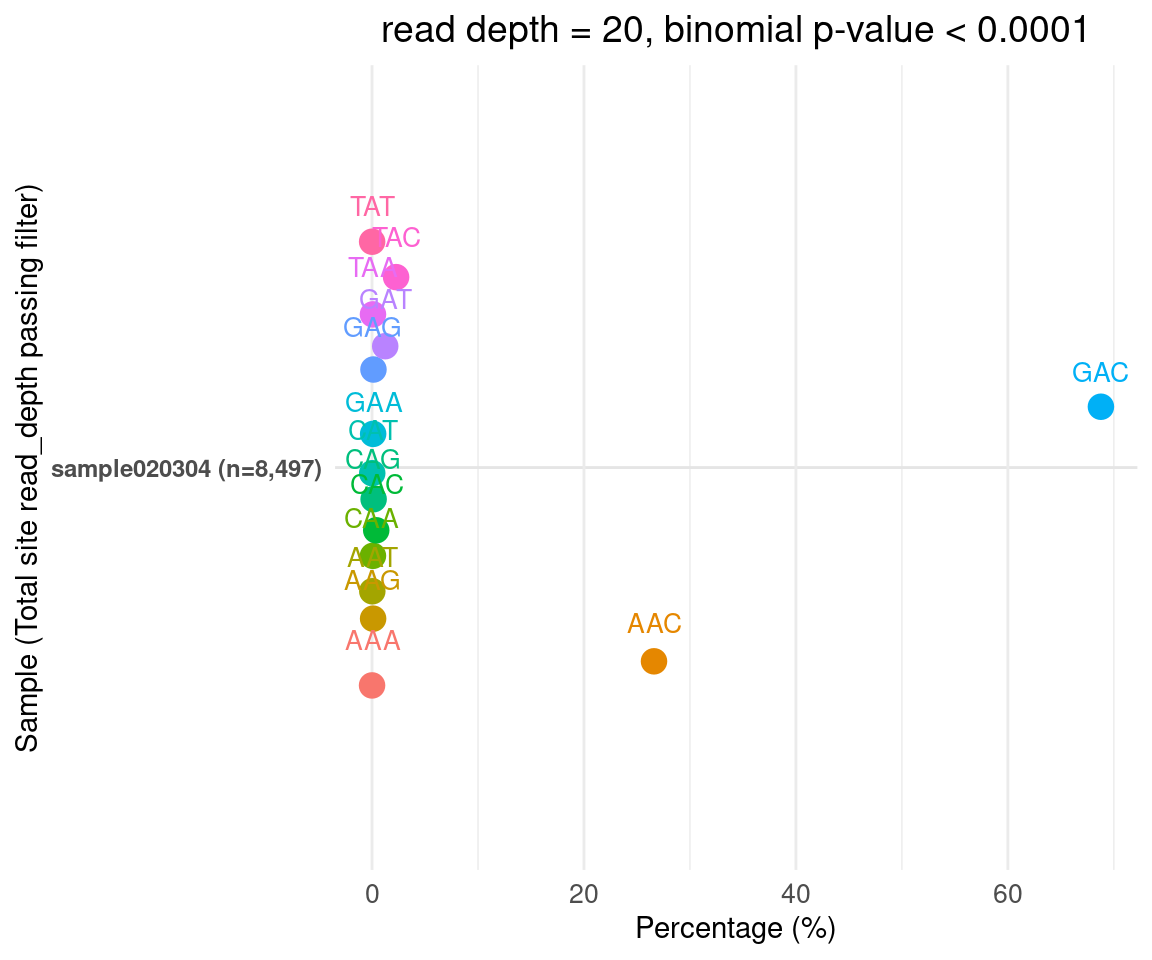
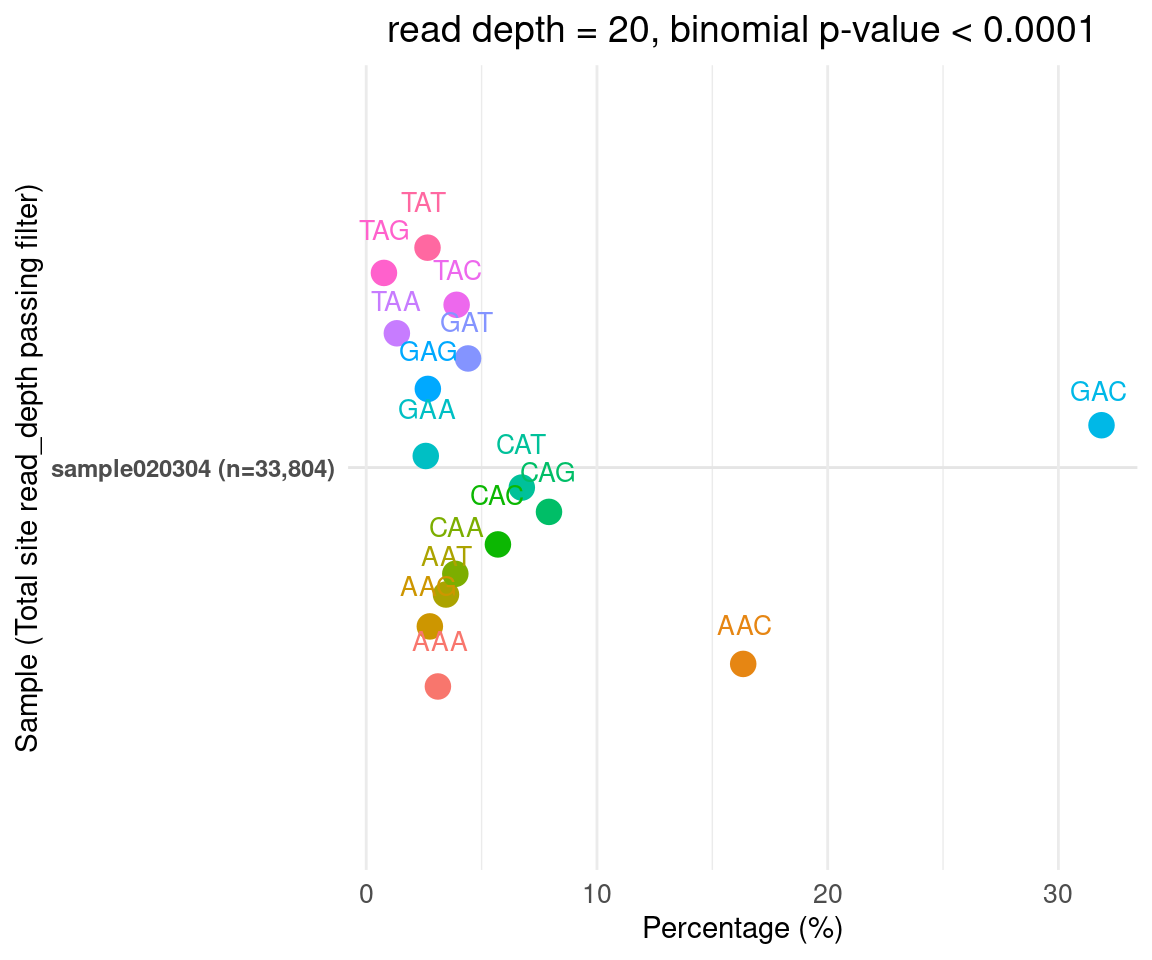
update

diff --git a/docs/QC_round3.html b/docs/QC_round3.html
@@ -410,7 +410,7 @@ aria-hidden="true"></span> </a>
 <div class="tab-content">
 <div id="summary" class="tab-pane fade in active">
 <p>
-<strong>Last updated:</strong> 2026-01-22
+<strong>Last updated:</strong> 2026-01-27
 </p>
 <p>
 <strong>Checks:</strong> <span
@@ -544,15 +544,15 @@ project makes it easier to run your code on other machines.</p>
 <div class="panel panel-default">
 <div class="panel-heading">
 <p class="panel-title">
-<a data-toggle="collapse" data-parent="#workflowr-checks" href="#strongRepositoryversionstrongahrefhttpsgithubcomxsun1229camseqm6atree675825ff1ef1687cb293ac6e77511f290fdd0157targetblank675825fa">
+<a data-toggle="collapse" data-parent="#workflowr-checks" href="#strongRepositoryversionstrongahrefhttpsgithubcomxsun1229camseqm6atree1438ff8b1077e27c37d6a12d294047f93d9b875ctargetblank1438ff8a">
 <span class="glyphicon glyphicon-ok text-success"
 aria-hidden="true"></span> <strong>Repository version:</strong>
-<a href="https://github.com/xsun1229/camseq-m6a/tree/675825ff1ef1687cb293ac6e77511f290fdd0157" target="_blank">675825f</a>
+<a href="https://github.com/xsun1229/camseq-m6a/tree/1438ff8b1077e27c37d6a12d294047f93d9b875c" target="_blank">1438ff8</a>
 </a>
 </p>
 </div>
 <div
[2 lines of base64/hex data omitted]
 class="panel-collapse collapse">
 <div class="panel-body">
 <p>
@@ -562,7 +562,7 @@ reproducibility.
 </p>
 <p>
 The results in this page were generated with repository version
-<a href="https://github.com/xsun1229/camseq-m6a/tree/675825ff1ef1687cb293ac6e77511f290fdd0157" target="_blank">675825f</a>.
+<a href="https://github.com/xsun1229/camseq-m6a/tree/1438ff8b1077e27c37d6a12d294047f93d9b875c" target="_blank">1438ff8</a>.
 See the <em>Past versions</em> tab to see a history of the changes made
 to the R Markdown and HTML files.
 </p>
@@ -623,6 +623,40 @@ Message
 </tr>
 </thead>
 <tbody>
+<tr>
+<td>
+Rmd
+</td>
+<td>
+<a href="https://github.com/xsun1229/camseq-m6a/blob/1438ff8b1077e27c37d6a12d294047f93d9b875c/analysis/QC_round3.Rmd" target="_blank">1438ff8</a>
+</td>
+<td>
+XSun
+</td>
+<td>
+2026-01-22
+</td>
+<td>
+update
+</td>
+</tr>
+<tr>
+<td>
+html
+</td>
+<td>
+<a href="https://rawcdn.githack.com/xsun1229/camseq-m6a/1438ff8b1077e27c37d6a12d294047f93d9b875c/docs/QC_round3.html" target="_blank">1438ff8</a>
+</td>
+<td>
+XSun
+</td>
+<td>
+2026-01-22
+</td>
+<td>
+update
+</td>
+</tr>
 <tr>
 <td>
 Rmd
@@ -907,7 +941,7 @@ count_overlap &lt;- function(file_list) {
 <th>i5 Index Name</th>
 <th>i5 Index Seq</th>
 <th>i5 Rev Comp</th>
-<th>Index Kit</th>
+<th>Manufacturer</th>
 <th>Input</th>
 </tr>
 </thead>
@@ -1062,7 +1096,7 @@ background probability of observing an unconverted A due to random
 sequencing or reverse-transcription errors and incomplete chemical
 conversion. Sites are first filtered by a minimum read depth to ensure
 stable statistical estimation.</p>
-<p>The background probability is set to 0.05</p>
+<p>The background probability is set to 0.005</p>
 <!-- Because the input/control sample contains too few high-coverage sites to reliably estimate background, \( p_{\mathrm{bg}} \) is estimated empirically from a large set of background sites in the treated sample that are unlikely to be modified (e.g., m⁶A-rare motifs or sites with low unconverted fractions). Specifically, \( p_{\mathrm{bg}} \) is calculated as \( \sum k / \sum n \), where \( k \) and \( n \) denote the unconverted read counts and total depth aggregated across background sites. For each tested site, a one-sided binomial p-value is computed as \( P(X \ge k) \), and sites passing both the depth filter and a stringent p-value cutoff are classified as significantly modified. -->
 <p>ref: PMID: 40247118 SI page3</p>
 <div
@@ -1106,6 +1140,17 @@ Date
 </tr>
 </thead>
 <tbody>
+<tr>
+<td>
+<a href="https://github.com/xsun1229/camseq-m6a/blob/1438ff8b1077e27c37d6a12d294047f93d9b875c/docs/figure/QC_round3.Rmd/unnamed-chunk-3-1.png" target="_blank">1438ff8</a>
+</td>
+<td>
+XSun
+</td>
+<td>
+2026-01-22
+</td>
+</tr>
 <tr>
 <td>
 <a href="https://github.com/xsun1229/camseq-m6a/blob/f26d88249e7d44607f5b3e9da84ddc2eb6883720/docs/figure/QC_round3.Rmd/unnamed-chunk-3-1.png" target="_blank">f26d882</a>
@@ -1185,6 +1230,17 @@ Date
 </tr>
 </thead>
 <tbody>
+<tr>
+<td>
+<a href="https://github.com/xsun1229/camseq-m6a/blob/1438ff8b1077e27c37d6a12d294047f93d9b875c/docs/figure/QC_round3.Rmd/unnamed-chunk-4-1.png" target="_blank">1438ff8</a>
+</td>
+<td>
+XSun
+</td>
+<td>
+2026-01-22
+</td>
+</tr>
 <tr>
 <td>
 <a href="https://github.com/xsun1229/camseq-m6a/blob/f26d88249e7d44607f5b3e9da84ddc2eb6883720/docs/figure/QC_round3.Rmd/unnamed-chunk-4-1.png" target="_blank">f26d882</a>
@@ -1273,6 +1329,17 @@ Date
 <tbody>
 <tr>
 <td>
+<a href="https://github.com/xsun1229/camseq-m6a/blob/1438ff8b1077e27c37d6a12d294047f93d9b875c/docs/figure/QC_round3.Rmd/unnamed-chunk-5-1.png" target="_blank">1438ff8</a>
+</td>
+<td>
+XSun
+</td>
+<td>
+2026-01-22
+</td>
+</tr>
+<tr>
+<td>
 <a href="https://github.com/xsun1229/camseq-m6a/blob/f26d88249e7d44607f5b3e9da84ddc2eb6883720/docs/figure/QC_round3.Rmd/unnamed-chunk-5-1.png" target="_blank">f26d882</a>
 </td>
 <td>
@@ -1349,6 +1416,17 @@ Date
 <tbody>
 <tr>
 <td>
+<a href="https://github.com/xsun1229/camseq-m6a/blob/1438ff8b1077e27c37d6a12d294047f93d9b875c/docs/figure/QC_round3.Rmd/unnamed-chunk-6-1.png" target="_blank">1438ff8</a>
+</td>
+<td>
+XSun
+</td>
+<td>
+2026-01-22
+</td>
+</tr>
+<tr>
+<td>
 <a href="https://github.com/xsun1229/camseq-m6a/blob/f26d88249e7d44607f5b3e9da84ddc2eb6883720/docs/figure/QC_round3.Rmd/unnamed-chunk-6-1.png" target="_blank">f26d882</a>
 </td>
 <td>
@@ -1403,6 +1481,17 @@ Date
 </tr>
 </thead>
 <tbody>
+<tr>
+<td>
+<a href="https://github.com/xsun1229/camseq-m6a/blob/1438ff8b1077e27c37d6a12d294047f93d9b875c/docs/figure/QC_round3.Rmd/unnamed-chunk-7-1.png" target="_blank">1438ff8</a>
+</td>
+<td>
+XSun
+</td>
+<td>
+2026-01-22
+</td>
+</tr>
 <tr>
 <td>
 <a href="https://github.com/xsun1229/camseq-m6a/blob/f26d88249e7d44607f5b3e9da84ddc2eb6883720/docs/figure/QC_round3.Rmd/unnamed-chunk-7-1.png" target="_blank">f26d882</a>
@@ -1481,6 +1570,17 @@ Date
 <tbody>
 <tr>
 <td>
+<a href="https://github.com/xsun1229/camseq-m6a/blob/1438ff8b1077e27c37d6a12d294047f93d9b875c/docs/figure/QC_round3.Rmd/unnamed-chunk-8-1.png" target="_blank">1438ff8</a>
+</td>
+<td>
+XSun
+</td>
+<td>
+2026-01-22
+</td>
+</tr>
+<tr>
+<td>
 <a href="https://github.com/xsun1229/camseq-m6a/blob/f26d88249e7d44607f5b3e9da84ddc2eb6883720/docs/figure/QC_round3.Rmd/unnamed-chunk-8-1.png" target="_blank">f26d882</a>
 </td>
 <td>
@@ -1535,6 +1635,17 @@ Date
 </tr>
 </thead>
 <tbody>
+<tr>
+<td>
+<a href="https://github.com/xsun1229/camseq-m6a/blob/1438ff8b1077e27c37d6a12d294047f93d9b875c/docs/figure/QC_round3.Rmd/unnamed-chunk-9-1.png" target="_blank">1438ff8</a>
+</td>
+<td>
+XSun
+</td>
+<td>
+2026-01-22
+</td>
+</tr>
 <tr>
 <td>
 <a href="https://github.com/xsun1229/camseq-m6a/blob/f26d88249e7d44607f5b3e9da84ddc2eb6883720/docs/figure/QC_round3.Rmd/unnamed-chunk-9-1.png" target="_blank">f26d882</a>
@@ -1615,6 +1726,17 @@ Date
 <tbody>
 <tr>
 <td>
+<a href="https://github.com/xsun1229/camseq-m6a/blob/1438ff8b1077e27c37d6a12d294047f93d9b875c/docs/figure/QC_round3.Rmd/unnamed-chunk-10-1.png" target="_blank">1438ff8</a>
+</td>
+<td>
+XSun
+</td>
+<td>
+2026-01-22
+</td>
+</tr>
+<tr>
+<td>
 <a href="https://github.com/xsun1229/camseq-m6a/blob/f26d88249e7d44607f5b3e9da84ddc2eb6883720/docs/figure/QC_round3.Rmd/unnamed-chunk-10-1.png" target="_blank">f26d882</a>
 </td>
 <td>
@@ -1669,6 +1791,17 @@ Date
 </tr>
 </thead>
 <tbody>
+<tr>
+<td>
+<a href="https://github.com/xsun1229/camseq-m6a/blob/1438ff8b1077e27c37d6a12d294047f93d9b875c/docs/figure/QC_round3.Rmd/unnamed-chunk-11-1.png" target="_blank">1438ff8</a>
+</td>
+<td>
+XSun
+</td>
+<td>
+2026-01-22
+</td>
+</tr>
 <tr>
 <td>
 <a href="https://github.com/xsun1229/camseq-m6a/blob/f26d88249e7d44607f5b3e9da84ddc2eb6883720/docs/figure/QC_round3.Rmd/unnamed-chunk-11-1.png" target="_blank">f26d882</a>
@@ -1749,6 +1882,17 @@ Date
 <tbody>
 <tr>
 <td>
+<a href="https://github.com/xsun1229/camseq-m6a/blob/1438ff8b1077e27c37d6a12d294047f93d9b875c/docs/figure/QC_round3.Rmd/unnamed-chunk-12-1.png" target="_blank">1438ff8</a>
+</td>
+<td>
+XSun
+</td>
+<td>
+2026-01-22
+</td>
+</tr>
+<tr>
+<td>
 <a href="https://github.com/xsun1229/camseq-m6a/blob/f26d88249e7d44607f5b3e9da84ddc2eb6883720/docs/figure/QC_round3.Rmd/unnamed-chunk-12-1.png" target="_blank">f26d882</a>
 </td>
 <td>
@@ -1803,6 +1947,17 @@ Date
 </tr>
 </thead>
 <tbody>
+<tr>
+<td>
+<a href="https://github.com/xsun1229/camseq-m6a/blob/1438ff8b1077e27c37d6a12d294047f93d9b875c/docs/figure/QC_round3.Rmd/unnamed-chunk-13-1.png" target="_blank">1438ff8</a>
+</td>
+<td>
+XSun
+</td>
+<td>
+2026-01-22
+</td>
+</tr>
 <tr>
 <td>
 <a href="https://github.com/xsun1229/camseq-m6a/blob/f26d88249e7d44607f5b3e9da84ddc2eb6883720/docs/figure/QC_round3.Rmd/unnamed-chunk-13-1.png" target="_blank">f26d882</a>
@@ -1882,6 +2037,17 @@ Date
 <tbody>
 <tr>
 <td>
+<a href="https://github.com/xsun1229/camseq-m6a/blob/1438ff8b1077e27c37d6a12d294047f93d9b875c/docs/figure/QC_round3.Rmd/unnamed-chunk-14-1.png" target="_blank">1438ff8</a>
+</td>
+<td>
+XSun
+</td>
+<td>
+2026-01-22
+</td>
+</tr>
+<tr>
+<td>
 <a href="https://github.com/xsun1229/camseq-m6a/blob/f26d88249e7d44607f5b3e9da84ddc2eb6883720/docs/figure/QC_round3.Rmd/unnamed-chunk-14-1.png" target="_blank">f26d882</a>
 </td>
 <td>
@@ -1914,6 +2080,43 @@ create_motif_plot(processed_motif_data,
                   point_size = 4,
                   text_size = 3.5)</code></pre>
 <p><img src="figure/QC_round3.Rmd/unnamed-chunk-15-1.png" width="576" style="display: block; margin: auto;" /></p>
+<p>
+<button type="button" class="btn btn-default btn-xs btn-workflowr btn-workflowr-fig" data-toggle="collapse" data-target="#fig-unnamed-chunk-15-1">
+Past versions of unnamed-chunk-15-1.png
+</button>
+</p>
+<div id="fig-unnamed-chunk-15-1" class="collapse">
+<div class="table-responsive">
+<table class="table table-condensed table-hover">
+<thead>
+<tr>
+<th>
+Version
+</th>
+<th>
+Author
+</th>
+<th>
+Date
+</th>
+</tr>
+</thead>
+<tbody>
+<tr>
+<td>
+<a href="https://github.com/xsun1229/camseq-m6a/blob/1438ff8b1077e27c37d6a12d294047f93d9b875c/docs/figure/QC_round3.Rmd/unnamed-chunk-15-1.png" target="_blank">1438ff8</a>
+</td>
+<td>
+XSun
+</td>
+<td>
+2026-01-22
+</td>
+</tr>
+</tbody>
+</table>
+</div>
+</div>
 <pre class="r"><code># ### site overlap
 # file_list &lt;- list.files(path =  folder_countsites,pattern = paste0(&quot;with_id_read&quot;,read_depth,&quot;_mepct&quot;,mepct),full.names = T)
 # 
@@ -1952,6 +2155,43 @@ combined &lt;- arrangeGrob(
 )
 grid.draw(combined)</code></pre>
 <p><img src="figure/QC_round3.Rmd/unnamed-chunk-16-1.png" width="1536" style="display: block; margin: auto;" /></p>
+<p>
+<button type="button" class="btn btn-default btn-xs btn-workflowr btn-workflowr-fig" data-toggle="collapse" data-target="#fig-unnamed-chunk-16-1">
+Past versions of unnamed-chunk-16-1.png
+</button>
+</p>
+<div id="fig-unnamed-chunk-16-1" class="collapse">
+<div class="table-responsive">
+<table class="table table-condensed table-hover">
+<thead>
+<tr>
+<th>
+Version
+</th>
+<th>
+Author
+</th>
+<th>
+Date
+</th>
+</tr>
+</thead>
+<tbody>
+<tr>
+<td>
+<a href="https://github.com/xsun1229/camseq-m6a/blob/1438ff8b1077e27c37d6a12d294047f93d9b875c/docs/figure/QC_round3.Rmd/unnamed-chunk-16-1.png" target="_blank">1438ff8</a>
+</td>
+<td>
+XSun
+</td>
+<td>
+2026-01-22
+</td>
+</tr>
+</tbody>
+</table>
+</div>
+</div>
 <!-- ## +- 2 nucleosides -->
 <!-- ### cutoff: read depth 10, methelytion level = 10% -->
 <!-- ```{r warning=F, message=F, fig.height=5, fig.width=6} -->
